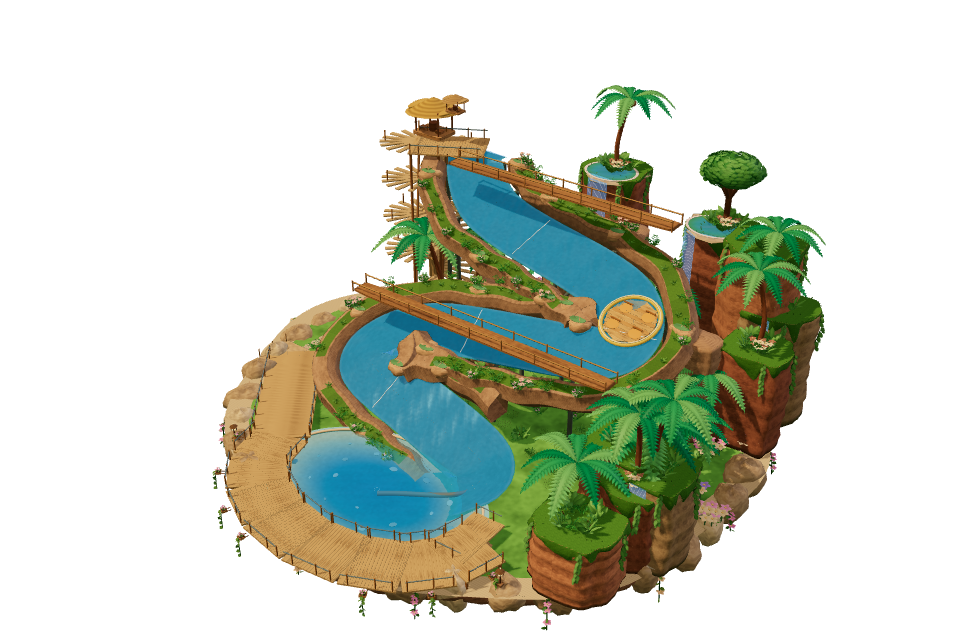
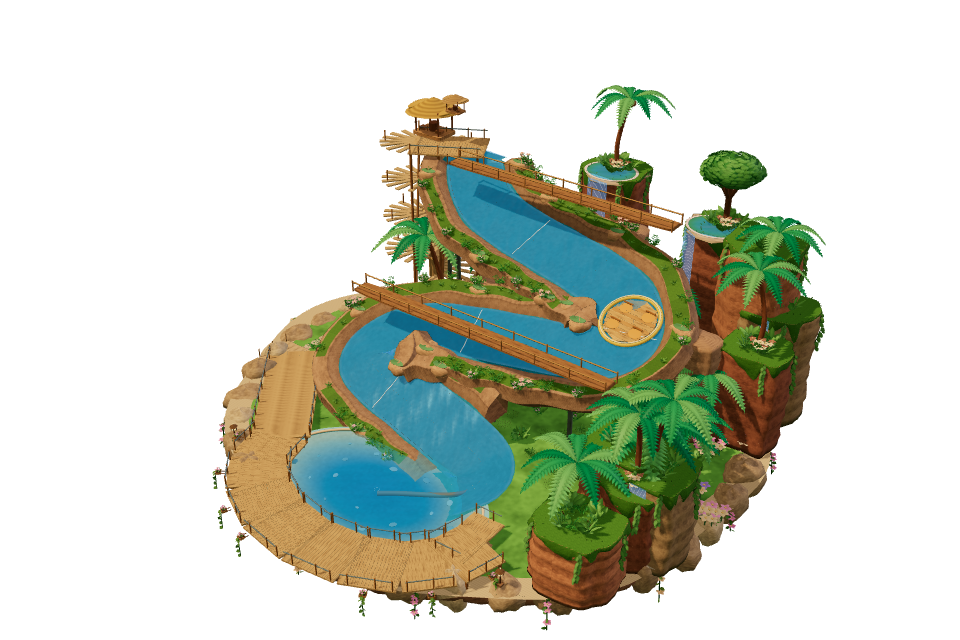
Complete supported boarding and final bank previews

diff --git a/public/showcase-water-motion.js b/public/showcase-water-motion.js
@@ -79,7 +79,7 @@ export function* showcaseRouteSteps(spec){
  const seatStart=legs.find(l=>l.phase==='anticipation').start,seatEnd=legs.find(l=>l.phase==='exit').start,seatHeight=['barrel-wave','surf-halfpipe'].includes(spec.kind) ? .09 : .36;
  const seated=f=>{if(!f.seatBlend)return f;const lift=new T.Vector3(0,seatHeight*f.seatBlend,0).applyQuaternion(new T.Quaternion().fromArray(f.quaternion));return{...f,position:V(f.position).add(lift).toArray()};};
 
- function vehicleFrame(elapsed,reduced=false){if(reduced||elapsed>=clock)return frame(entry,undefined,{phase:'done',seatBlend:0});const t=T.MathUtils.clamp(elapsed,0,clock),leg=legs.find(l=>t<=l.start+l.duration)||legs.at(-1),f=leg.fn((t-leg.start)/leg.duration);return {paw:0,seatBlend:smooth(Math.min((t-seatStart)/.6,(seatEnd+.6-t)/.6)),...f,phase:leg.phase};}
+ function vehicleFrame(elapsed,reduced=false){if(reduced||elapsed>=clock)return frame(entry,undefined,{phase:'done',seatBlend:0});const t=T.MathUtils.clamp(elapsed,0,clock),leg=legs.find(l=>t<=l.start+l.duration)||legs.at(-1),f=leg.fn((t-leg.start)/leg.duration);return {paw:0,seatBlend:smooth(Math.min((t-seatStart+.6)/.6,(seatEnd+.6-t)/.6)),...f,phase:leg.phase};}
  for(const e of impacts){e.point=e.position;e.power=e.strength;delete e.position;delete e.strength;}
  const lanes=Array.from({length:spec.seats},(_,i)=>({geometry,impacts:spec.kind==='fountain-carousel'?impacts.map(e=>({...e,point:[Math.sin(i*TAU/spec.seats)*16,spec.surfaceY,Math.cos(i*TAU/spec.seats)*16]})):impacts,flights,legs,frame:(elapsed,reduced=false)=>{const f=vehicleFrame(elapsed,reduced);if(spec.kind==='fountain-carousel'&&['board','anticipation','exit','done'].includes(f.phase)){const angle=i*TAU/spec.seats,q=new T.Quaternion().setFromAxisAngle(new T.Vector3(0,1,0),angle);return seated({...f,position:V(f.position).applyQuaternion(q).toArray(),quaternion:q.multiply(new T.Quaternion().fromArray(f.quaternion)).toArray(),yaw:(f.yaw||0)+angle});}const q=new T.Quaternion().fromArray(f.quaternion||[0,0,0,1]);if(spec.kind==='fountain-carousel'){const a=(f.carouselAngle||0)+i*TAU/spec.seats;return seated({...f,position:[Math.sin(a)*16,1.95,Math.cos(a)*16],quaternion:new T.Quaternion().setFromAxisAngle(new T.Vector3(0,1,0),a).toArray()});}const offset=V(seatOffset(spec,i)).applyQuaternion(q);return seated({...f,position:V(f.position).add(offset).toArray()});}}));
  const boatFrame=(t,reduced=false,lane=0)=>{const f=lanes[lane%lanes.length].frame(t,reduced),lift=new T.Vector3(0,seatHeight*(f.seatBlend||0),0).applyQuaternion(new T.Quaternion().fromArray(f.quaternion));return{...f,position:V(f.position).sub(lift).toArray()};};

diff --git a/public/showcase-probe-assets.js b/public/showcase-probe-assets.js
@@ -1,5 +1,5 @@
 // Offline captures of the actual original static mini-biomes.
-export const SHOWCASE_PROBE_REVISION="c71b1deff48757d8";
+export const SHOWCASE_PROBE_REVISION="7c3df26c398b757e";
 export const SHOWCASE_WATER_PROBES={
   "ride-water-barrel-wave": "./art/water-reflections/barrel-wave-4a13222f43a2.png",
   "ride-water-canyon-rafting": "./art/water-reflections/canyon-rafting-4e4abf6c2a26.png",
